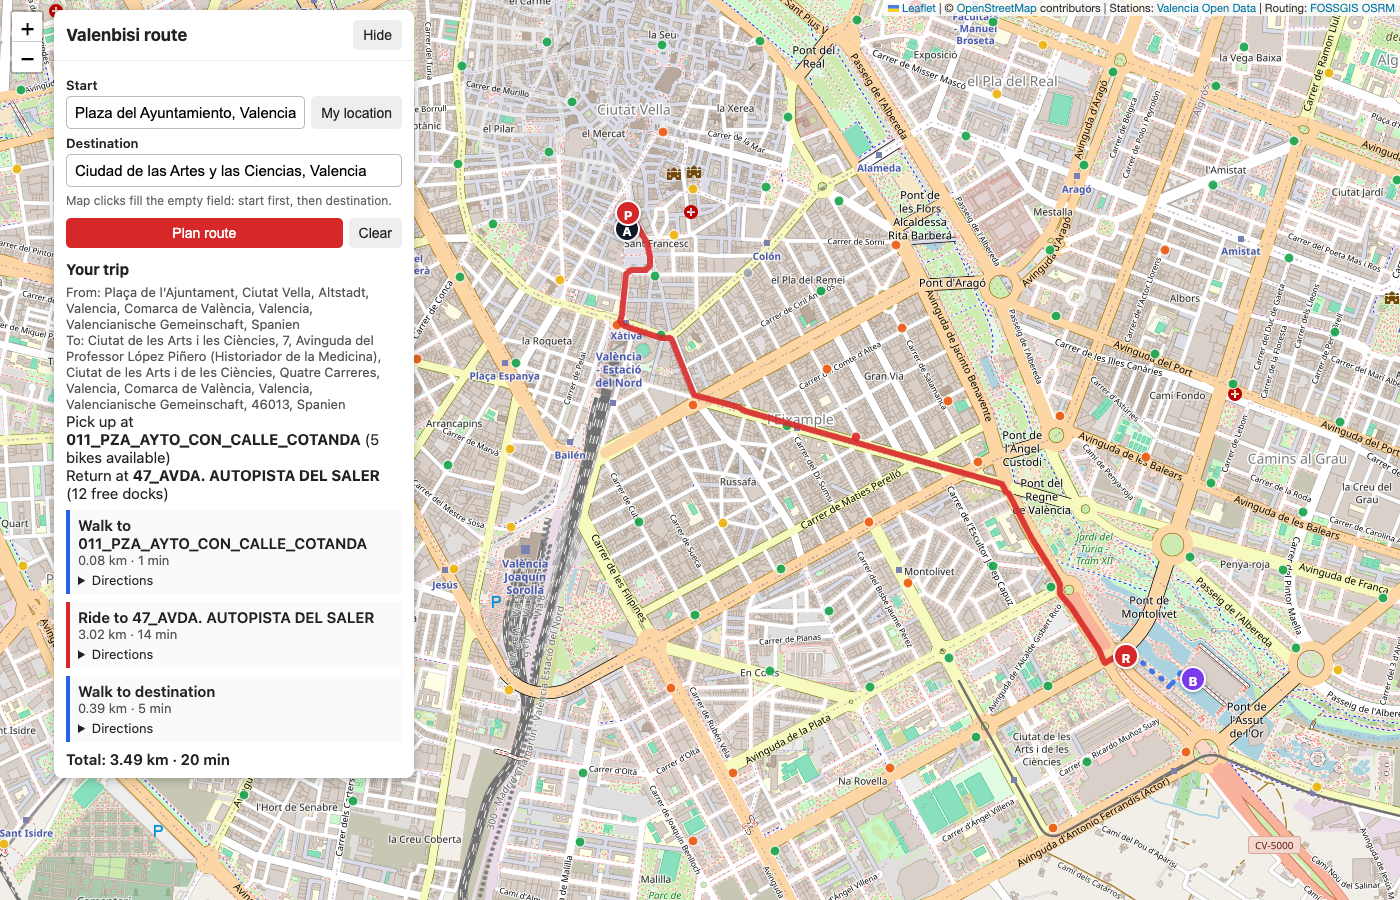
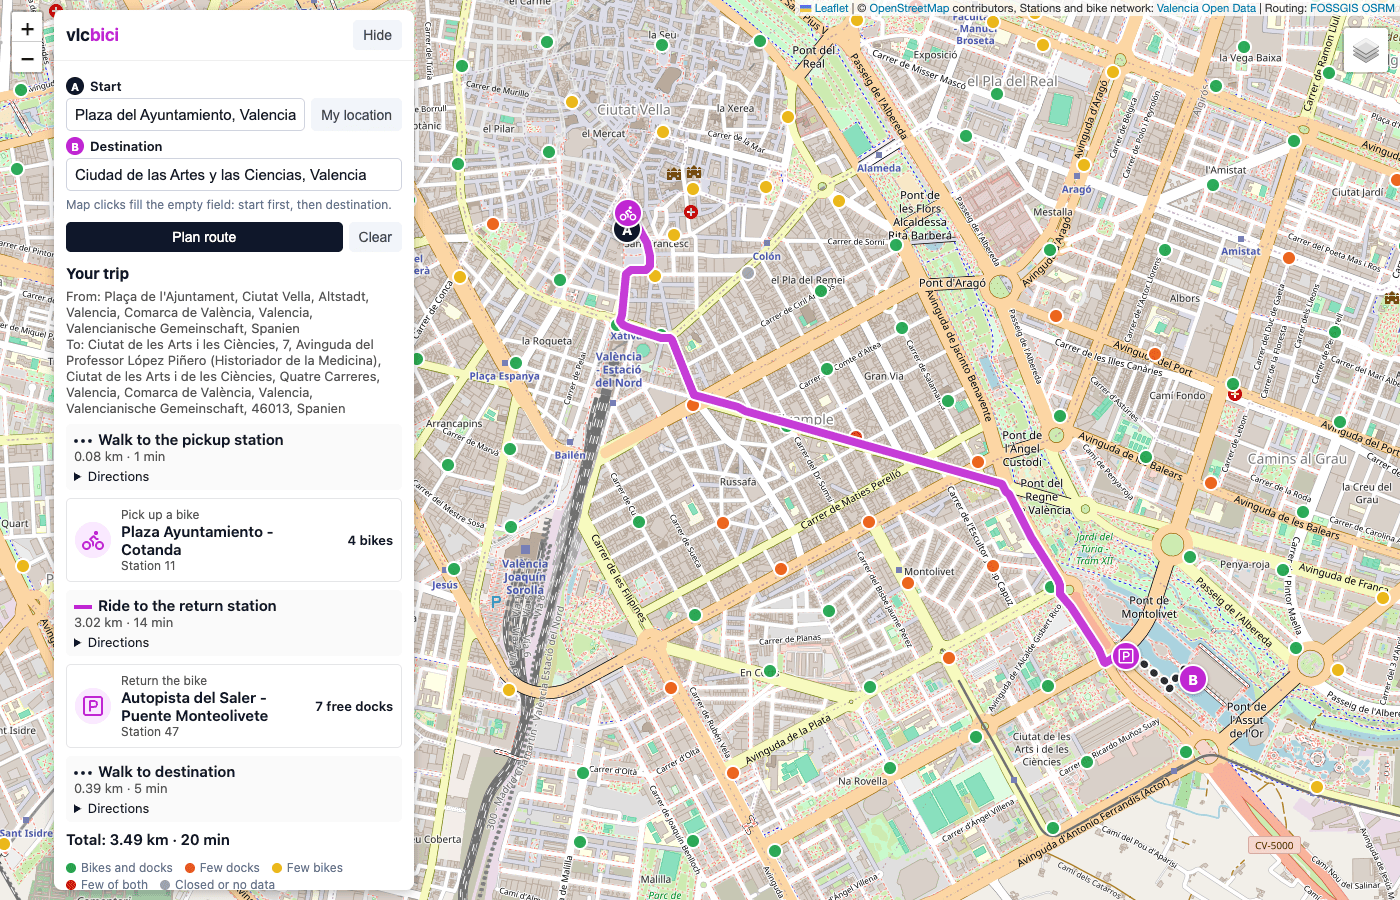
docs: update screenshot

diff --git a/README.md b/README.md
@@ -2,6 +2,8 @@
 
 A small static web app that plans a trip in Valencia with walking and Valenbisi bike sharing.
 
+![A planned trip from Plaza del Ayuntamiento to the City of Arts and Sciences, with walking and bike legs on the map and the trip summary in the side panel](screenshot.png)
+
 > [!NOTE]
 > This is an unofficial project. It is not affiliated with, endorsed by or connected to Valenbisi, JCDecaux or the City of Valencia. "Valenbisi" is used only to name the bike sharing service that the app works with. Station data comes from the city's public open data and can be out of date. Check the station before you rely on it.
 
